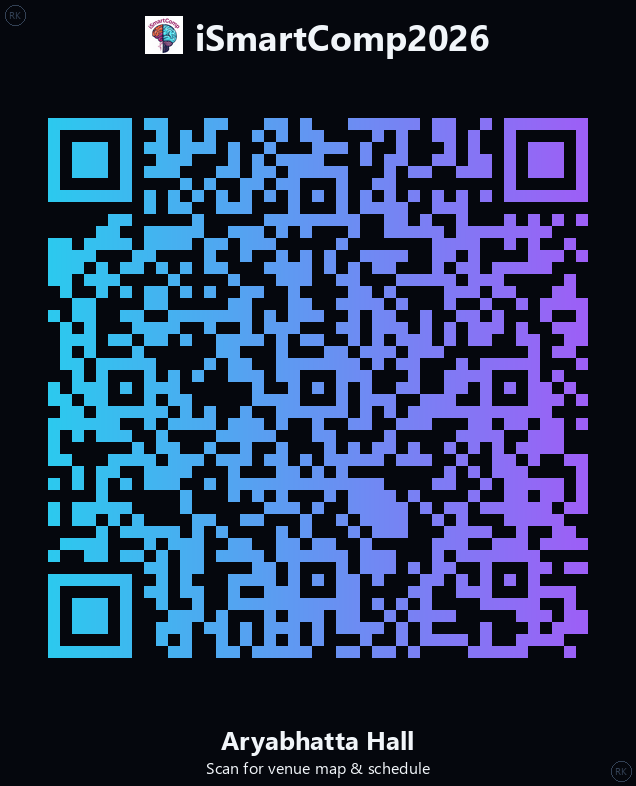
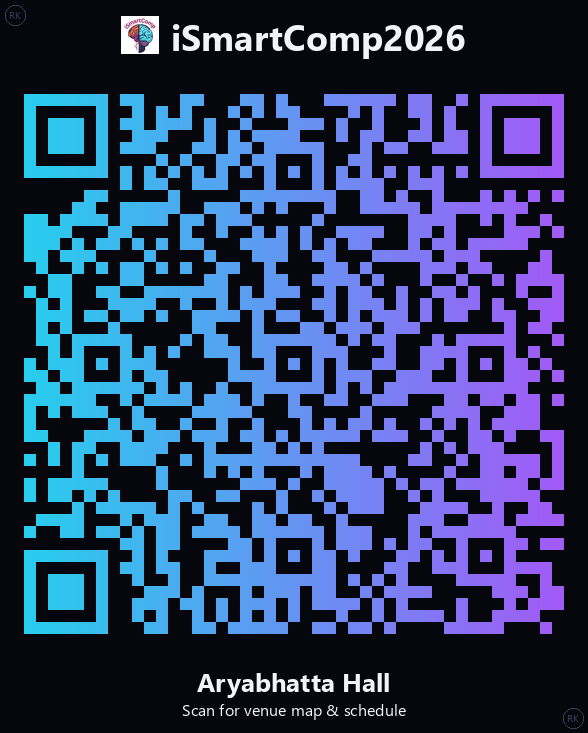
Adjust QR code layout to balance footer text spacing

diff --git a/scripts/generate_qr.py b/scripts/generate_qr.py
@@ -21,7 +21,7 @@ def create_labeled_qr(data, text, filename, subtitle="Scan for venue map & sched
         version=1,
         error_correction=qrcode.constants.ERROR_CORRECT_H,
         box_size=12,
-        border=4
+        border=2
     )
     qr.add_data(data)
     qr.make(fit=True)
@@ -73,7 +73,7 @@ def create_labeled_qr(data, text, filename, subtitle="Scan for venue map & sched
     # Calculate sizes
     qr_w, qr_h = qr_img.size
     header_h = 70  # Space for conference title at top
-    footer_h = 80  # Space for location name and instructions at bottom
+    footer_h = 75  # Space for location name and instructions at bottom
     
     # Require width to be at least max of QR, text, and header
     img_w = max(qr_w, text_w_loc + 60, total_w_header + 60)
@@ -107,7 +107,7 @@ def create_labeled_qr(data, text, filename, subtitle="Scan for venue map & sched
 
     # Draw Footer (Location Name)
     text_x_loc = (img_w - text_w_loc) // 2
-    text_y_loc = header_h + qr_h + 15
+    text_y_loc = header_h + qr_h + 5
     draw.text((text_x_loc, text_y_loc), text, fill=text_color, font=font_loc_name)
     
     # Draw Footer (Instructions)
